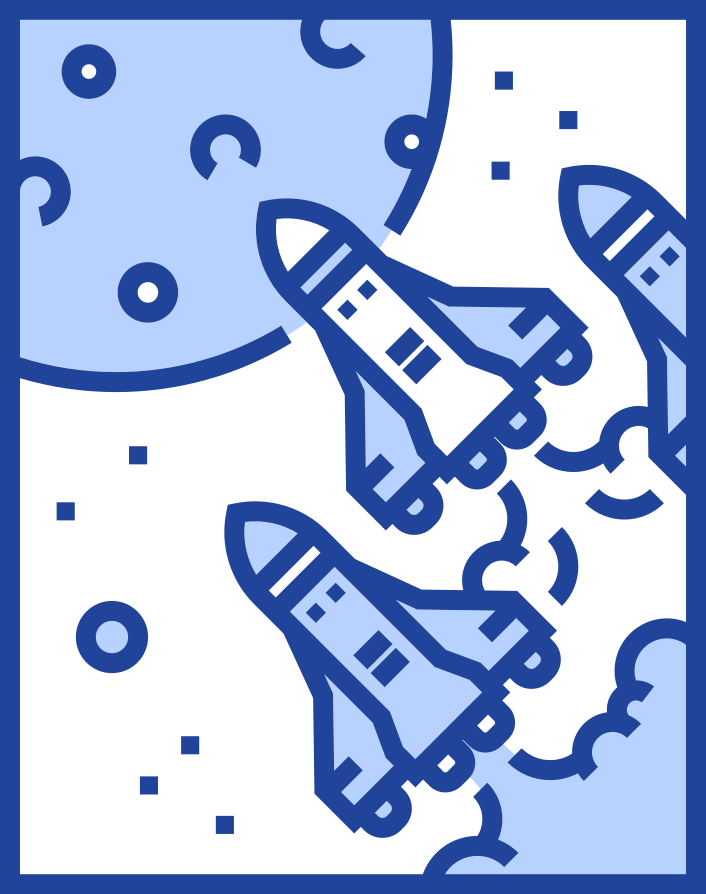
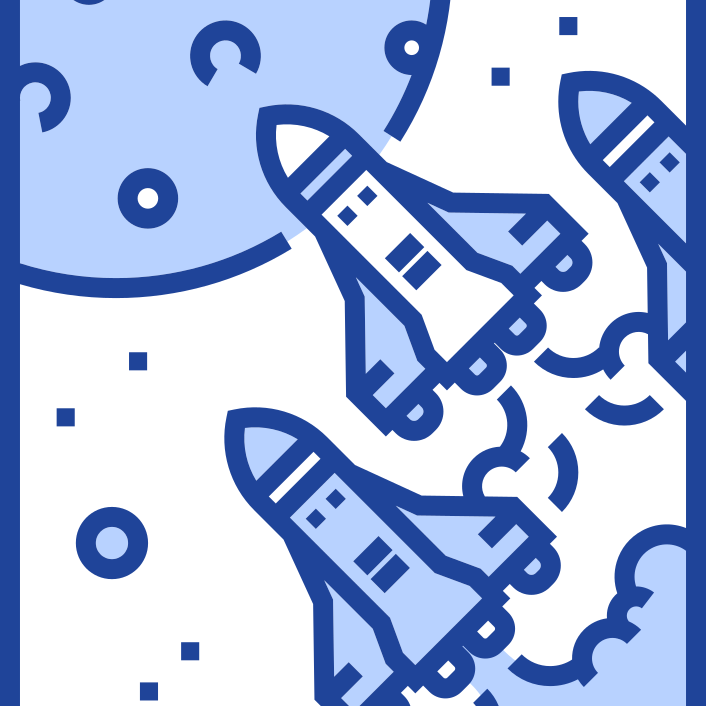
Возвращение EGOR.css

diff --git a/templates/base.html b/templates/base.html
@@ -3,6 +3,7 @@
 <head>
     <meta charset="UTF-8">
     <link rel="stylesheet" href="/static/css/bootstrap-grid.min.css">
+    <link rel="stylesheet" href="/static/css/EGOR.css">
     <!-- <link href="https://fonts.googleapis.com/css2?family=Roboto:wght@300;400&display=swap" rel="stylesheet"> -->
     <link href="https://fonts.googleapis.com/css2?family=Montserrat:wght@300;400&display=swap" rel="stylesheet">
     <link rel="stylesheet" href="/static/css/style.min.css">

diff --git a/blueprints/macros/crop_image.py b/blueprints/macros/crop_image.py
@@ -3,14 +3,11 @@ from PIL import Image
 
 def crop_image(img_path):
     image = Image.open(img_path)
-    print(img_path)
     width, height = image.size
     if width > height:
         x = (width - height) // 2
-        print('xxxx', width, height, x)
         image = image.crop((x, 0, width - x, height))
     elif height > width:
         y = (height - width) // 2
-        print('yyyy', width, height, y)
         image = image.crop((0, y, width, height - y))
     image.save(img_path)
